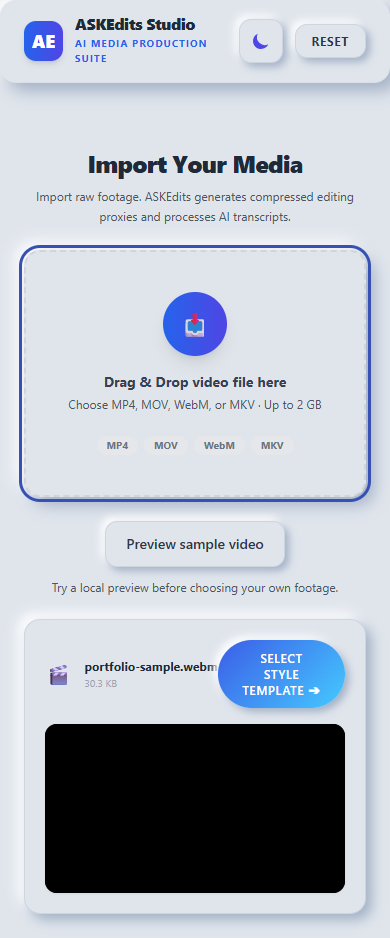
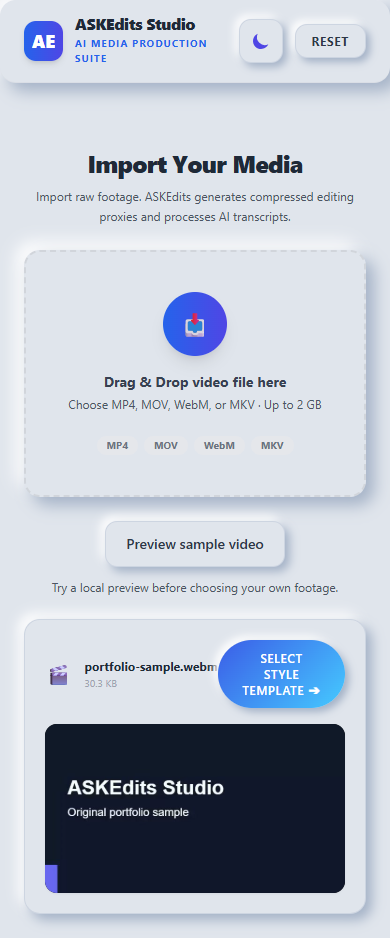
Polish sample previews after desktop and mobile browser checks

diff --git a/src/frontend/utils/file-intel.js b/src/frontend/utils/file-intel.js
@@ -49,8 +49,8 @@ export function extractVideoPreview(file) {
       () => {
         const durationSec = Number.isFinite(video.duration) ? video.duration : 0
 
-        if (durationSec > 0.25) {
-          video.currentTime = Math.min(durationSec / 3, 1.5)
+        if (durationSec > 0.25 || video.duration === Infinity) {
+          video.currentTime = durationSec > 0 ? Math.min(durationSec / 3, 1.5) : 0.1
           return
         }
 
